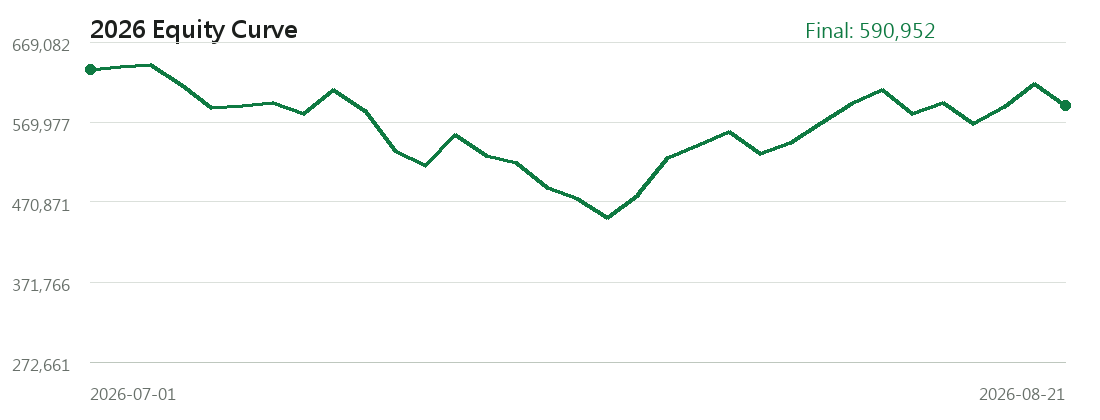
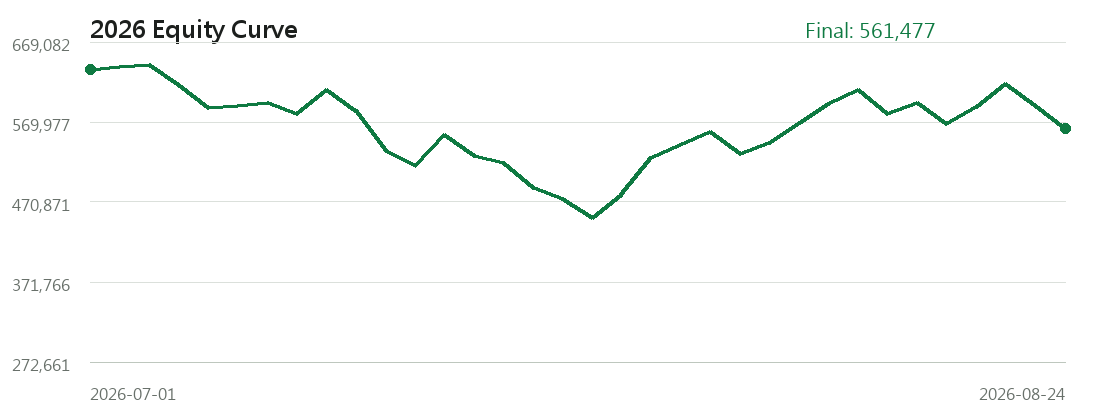
Update dashboard data

diff --git a/data.js b/data.js
@@ -1,5 +1,5 @@
 window.PUBLIC_FOLLOW_DATA = {
-  "generated_at": "2026-08-21T18:34:27.286964+08:00",
+  "generated_at": "2026-08-24T18:34:32.440745+08:00",
   "public_note": "Static follow dashboard only. Backend code, database, cache, and parameter search files are local-only.",
   "assumptions": {
     "initial_capital": 300000.0,
@@ -8,20 +8,20 @@ window.PUBLIC_FOLLOW_DATA = {
     "position_sizing": "Capital is split across up to 5 positions with integer-share sizing."
   },
   "data_status": {
-    "signal_date": "2026-08-21",
-    "latest_chip_date": "2026-08-21",
-    "latest_price_date": "2026-08-21",
-    "candidate_count": 3,
+    "signal_date": "2026-08-24",
+    "latest_chip_date": "2026-08-24",
+    "latest_price_date": "2026-08-24",
+    "candidate_count": 2,
     "warning": null
   },
   "metrics": {
     "initial_capital": 300000.0,
-    "final_value": 590951.5484176637,
+    "final_value": 561477.0484176637,
     "cash": 4065.548417663609,
-    "total_return_pct": 96.98384947255457,
-    "annualized_return_pct": 212.78105785059975,
+    "total_return_pct": 87.15901613922121,
+    "annualized_return_pct": 182.89312067578908,
     "start_date": "2026-01-16",
-    "end_date": "2026-08-21",
+    "end_date": "2026-08-24",
     "closed_trade_count": 40,
     "entry_count": 41,
     "open_position_count": 5,
@@ -228,6 +228,12 @@ window.PUBLIC_FOLLOW_DATA = {
       "equity": 590951.5484176637,
       "cash": 4065.548417663609,
       "position_count": 5
+    },
+    {
+      "date": "2026-08-24",
+      "equity": 561477.0484176637,
+      "cash": 4065.548417663609,
+      "position_count": 5
     }
   ],
   "holdings": [
@@ -237,11 +243,11 @@ window.PUBLIC_FOLLOW_DATA = {
       "quantity": 546,
       "entry_date": "2026-08-14",
       "entry_price": 224.0,
-      "current_price_date": "2026-08-21",
-      "current_price": 212.0,
-      "market_value": 115752.0,
-      "unrealized_return_pct": -5.35714285714286,
-      "holding_days": 7,
+      "current_price_date": "2026-08-24",
+      "current_price": 203.0,
+      "market_value": 110838.0,
+      "unrealized_return_pct": -9.375,
+      "holding_days": 10,
       "concept_tag_names": [
         "MLCC/被動元件",
         "被動元件",
@@ -258,11 +264,11 @@ window.PUBLIC_FOLLOW_DATA = {
       "quantity": 131,
       "entry_date": "2026-08-18",
       "entry_price": 917.0,
-      "current_price_date": "2026-08-21",
-      "current_price": 811.0,
-      "market_value": 106241.0,
-      "unrealized_return_pct": -11.55943293347873,
-      "holding_days": 3,
+      "current_price_date": "2026-08-24",
+      "current_price": 794.0,
+      "market_value": 104014.0,
+      "unrealized_return_pct": -13.413304252998914,
+      "holding_days": 6,
       "concept_tag_names": [
         "ABF載板",
         "證券券商",
@@ -277,11 +283,11 @@ window.PUBLIC_FOLLOW_DATA = {
       "quantity": 271,
       "entry_date": "2026-08-19",
       "entry_price": 400.0,
-      "current_price_date": "2026-08-21",
-      "current_price": 448.0,
-      "market_value": 121408.0,
-      "unrealized_return_pct": 12.00000000000001,
-      "holding_days": 2,
+      "current_price_date": "2026-08-24",
+      "current_price": 403.5,
+      "market_value": 109348.5,
+      "unrealized_return_pct": 0.8750000000000036,
+      "holding_days": 5,
       "concept_tag_names": [
         "證券券商",
         "光纖/光纜",
@@ -298,11 +304,11 @@ window.PUBLIC_FOLLOW_DATA = {
       "quantity": 162,
       "entry_date": "2026-08-21",
       "entry_price": 770.0,
-      "current_price_date": "2026-08-21",
-      "current_price": 725.0,
-      "market_value": 117450.0,
-      "unrealized_return_pct": -5.844155844155841,
-      "holding_days": 0,
+      "current_price_date": "2026-08-24",
+      "current_price": 665.0,
+      "market_value": 107730.0,
+      "unrealized_return_pct": -13.636363636363635,
+      "holding_days": 3,
       "concept_tag_names": [
         "半導體設備",
         "證券券商",
@@ -319,11 +325,11 @@ window.PUBLIC_FOLLOW_DATA = {
       "quantity": 277,
       "entry_date": "2026-08-21",
       "entry_price": 438.5,
-      "current_price_date": "2026-08-21",
-      "current_price": 455.0,
-      "market_value": 126035.0,
-      "unrealized_return_pct": 3.7628278221208733,
-      "holding_days": 0,
+      "current_price_date": "2026-08-24",
+      "current_price": 453.0,
+      "market_value": 125481.0,
+      "unrealized_return_pct": 3.3067274800456126,
+      "holding_days": 3,
       "concept_tag_names": [
         "證券券商",
         "NB/PC代工",
@@ -335,90 +341,150 @@ window.PUBLIC_FOLLOW_DATA = {
     }
   ],
   "trade_plan": {
-    "sell_orders": [],
-    "buy_orders": [],
-    "total_sell_amount": 0,
-    "total_buy_amount": 0,
+    "sell_orders": [
+      {
+        "stock_id": "6173",
+        "company_name": "信昌電",
+        "quantity": 546,
+        "price": 203.0,
+        "amount": 110838.0,
+        "concept_tag_names": [
+          "MLCC/被動元件",
+          "被動元件",
+          "證券券商",
+          "工具機零組件",
+          "投資控股",
+          "晶圓製程設備零組件",
+          "保護元件/電感"
+        ]
+      },
+      {
+        "stock_id": "3189",
+        "company_name": "景碩",
+        "quantity": 131,
+        "price": 794.0,
+        "amount": 104014.0,
+        "concept_tag_names": [
+          "ABF載板",
+          "證券券商",
+          "PCB/CCL",
+          "投資控股",
+          "半導體IP/設計服務"
+        ]
+      }
+    ],
+    "buy_orders": [
+      {
+        "stock_id": "3605",
+        "company_name": "宏致",
+        "quantity": 972,
+        "price": 115.5,
+        "amount": 112266.0,
+        "action": "SELL_WEAKEST_BUY_CANDIDATE",
+        "entry_date": null,
+        "concept_tag_names": [
+          "連接器/線束",
+          "證券券商",
+          "工具機零組件",
+          "投資控股",
+          "晶圓製程設備零組件",
+          "精密沖壓/金屬件"
+        ]
+      },
+      {
+        "stock_id": "6147",
+        "company_name": "頎邦",
+        "quantity": 715,
+        "price": 157.0,
+        "amount": 112255.0,
+        "action": "SELL_WEAKEST_BUY_CANDIDATE",
+        "entry_date": null,
+        "concept_tag_names": [
+          "封測",
+          "證券券商",
+          "ASIC設計服務",
+          "半導體IP/設計服務",
+          "投資控股",
+          "檢測設備/服務",
+          "測試驗證服務"
+        ]
+      }
+    ],
+    "total_sell_amount": 214852.0,
+    "total_buy_amount": 224521.0,
     "starting_cash": 4065.548417663609,
-    "net_cash_change": 0,
-    "cash_after_plan": 4065.548417663609,
-    "needs_extra_cash": 0.0,
-    "remaining_cash": 4065.548417663609
+    "net_cash_change": -9669.0,
+    "cash_after_plan": -5603.451582336391,
+    "needs_extra_cash": 5603.451582336391,
+    "remaining_cash": 0.0
   },
   "today_candidates": [
     {
       "rank": 1,
-      "signal_date": "2026-08-21",
-      "stock_id": "4979",
-      "company_name": "華星光",
-      "action": "WATCH_WEAKER_THAN_CURRENT_HOLDING",
-      "reference_price": 577.0,
-      "target_amount": 118190.30968353273,
-      "suggested_quantity": 204,
-      "buy_amount": 117708.0,
+      "signal_date": "2026-08-24",
+      "stock_id": "3605",
+      "company_name": "宏致",
+      "action": "SELL_WEAKEST_BUY_CANDIDATE",
+      "reference_price": 115.5,
+      "target_amount": 112295.40968353274,
+      "suggested_quantity": 972,
+      "buy_amount": 112266.0,
+      "sell_stock_id": "6173",
+      "sell_company_name": "信昌電",
+      "sell_quantity": 546,
+      "sell_current_price": 203.0,
+      "sell_market_value": 110838.0,
       "concept_tag_names": [
-        "光通訊模組",
-        "矽光子/CPO",
+        "連接器/線束",
         "證券券商",
-        "光纖/光纜",
-        "光纖傳輸/光通訊",
+        "工具機零組件",
         "投資控股",
-        "矽光子/光通訊",
-        "網安/網路設備",
-        "遊戲/數位內容"
+        "晶圓製程設備零組件",
+        "精密沖壓/金屬件"
       ],
-      "action_text": "觀察"
+      "sell_concept_tag_names": [
+        "MLCC/被動元件",
+        "被動元件",
+        "證券券商",
+        "工具機零組件",
+        "投資控股",
+        "晶圓製程設備零組件",
+        "保護元件/電感"
+      ],
+      "action_text": "換股買進"
     },
     {
       "rank": 2,
-      "signal_date": "2026-08-21",
-      "stock_id": "6531",
-      "company_name": "愛普*",
-      "action": "WATCH_WEAKER_THAN_CURRENT_HOLDING",
-      "reference_price": 883.0,
-      "target_amount": 118190.30968353273,
-      "suggested_quantity": 133,
-      "buy_amount": 117439.0,
+      "signal_date": "2026-08-24",
+      "stock_id": "6147",
+      "company_name": "頎邦",
+      "action": "SELL_WEAKEST_BUY_CANDIDATE",
+      "reference_price": 157.0,
+      "target_amount": 112295.40968353274,
+      "suggested_quantity": 715,
+      "buy_amount": 112255.0,
+      "sell_stock_id": "3189",
+      "sell_company_name": "景碩",
+      "sell_quantity": 131,
+      "sell_current_price": 794.0,
+      "sell_market_value": 104014.0,
       "concept_tag_names": [
-        "AI ASIC/高速運算IC",
-        "驅動IC",
+        "封測",
         "證券券商",
-        "利基型記憶體/Nor Flash",
+        "ASIC設計服務",
+        "半導體IP/設計服務",
         "投資控股",
-        "汽車/車用零組件",
-        "記憶體",
-        "車用AM零件",
-        "遊戲/VR裝置",
+        "檢測設備/服務",
+        "測試驗證服務"
+      ],
+      "sell_concept_tag_names": [
+        "ABF載板",
+        "證券券商",
+        "PCB/CCL",
+        "投資控股",
         "半導體IP/設計服務"
       ],
-      "action_text": "觀察"
-    },
-    {
-      "rank": 3,
-      "signal_date": "2026-08-21",
-      "stock_id": "4991",
-      "company_name": "環宇-KY",
-      "action": "WATCH_WEAKER_THAN_CURRENT_HOLDING",
-      "reference_price": 481.0,
-      "target_amount": 118190.30968353273,
-      "suggested_quantity": 245,
-      "buy_amount": 117845.0,
-      "concept_tag_names": [
-        "化合物半導體/RF",
-        "證券券商",
-        "NB/PC代工",
-        "RF前端/功率放大器",
-        "太陽能",
-        "投資控股",
-        "晶圓代工",
-        "晶圓製程設備零組件",
-        "汽車/車用零組件",
-        "系統整合/資服",
-        "車用AM零件",
-        "鞋業/運動供應鏈",
-        "半導體IP/設計服務"
-      ],
-      "action_text": "觀察"
+      "action_text": "換股買進"
     }
   ],
   "recent_entries": [
